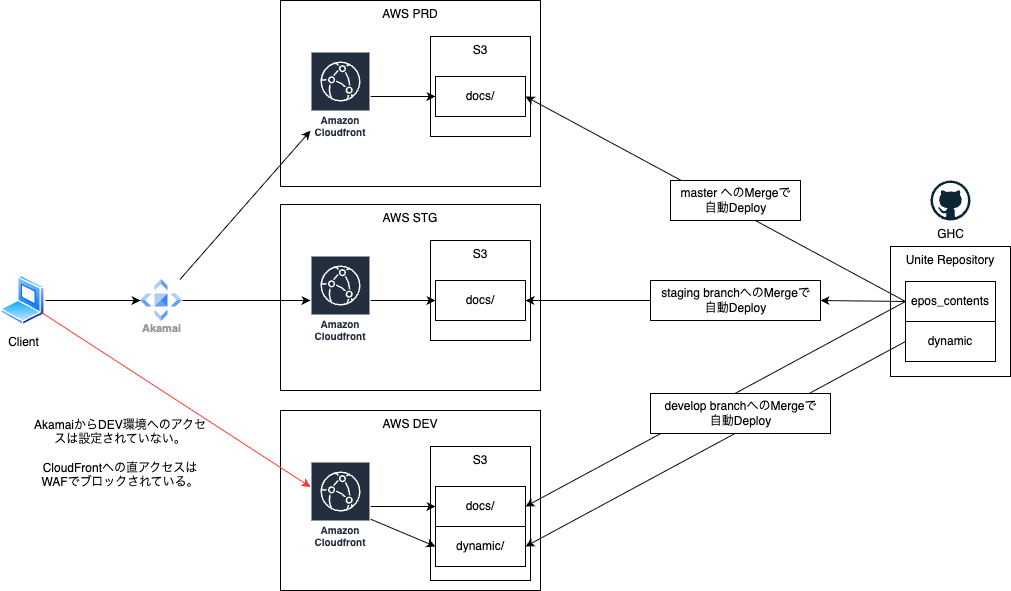
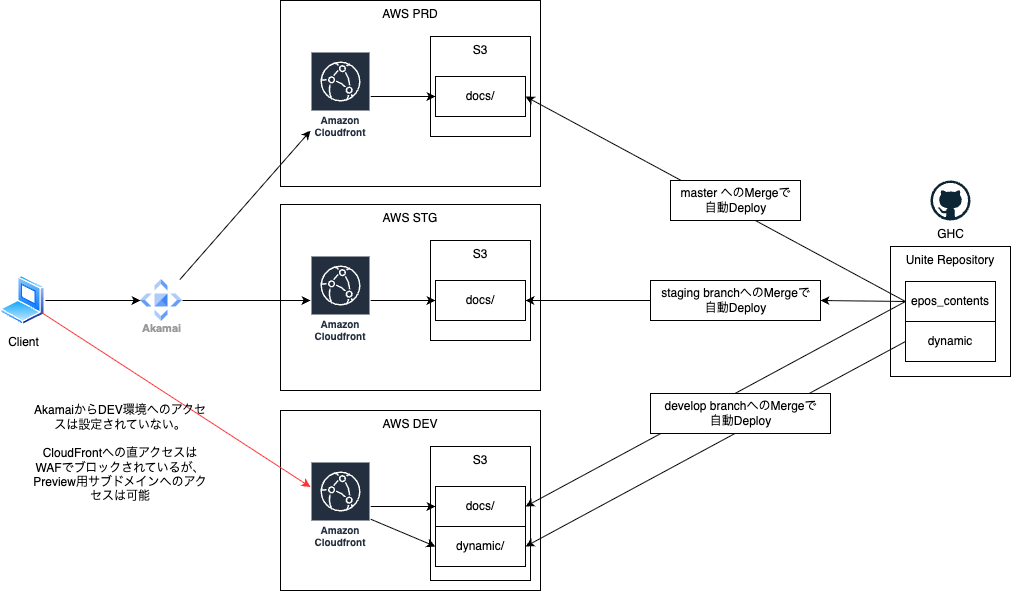
docs: 打ち合わせ資料追加

Changed region(s): [[0.0307, 0.6701, 0.2146, 0.8528]]

diff --git a/02.打ち合わせ資料/AWS DEVまとめ.md b/02.打ち合わせ資料/AWS DEVまとめ.md
@@ -1,0 +1,16 @@
+# `dynamic` 配下の運用整備構成案
+
+## MARUI-UNITE 管理下のAWS DEVに検証環境を移す
+
+__AWS 各環境の役割__
+
+AWS DEV : 開発中検証環境（インフラ検証用にしか使用していない）
+
+AWS STG : PRDと同等かつリリース前の案件が含まれる環境
+
+AWS PRD : 公開環境
+
+__静的コンテンツのデプロイの流れ__
+
+- Preview環境が作成
+`epos_contents`の`feature/*`から`staging`へPR
